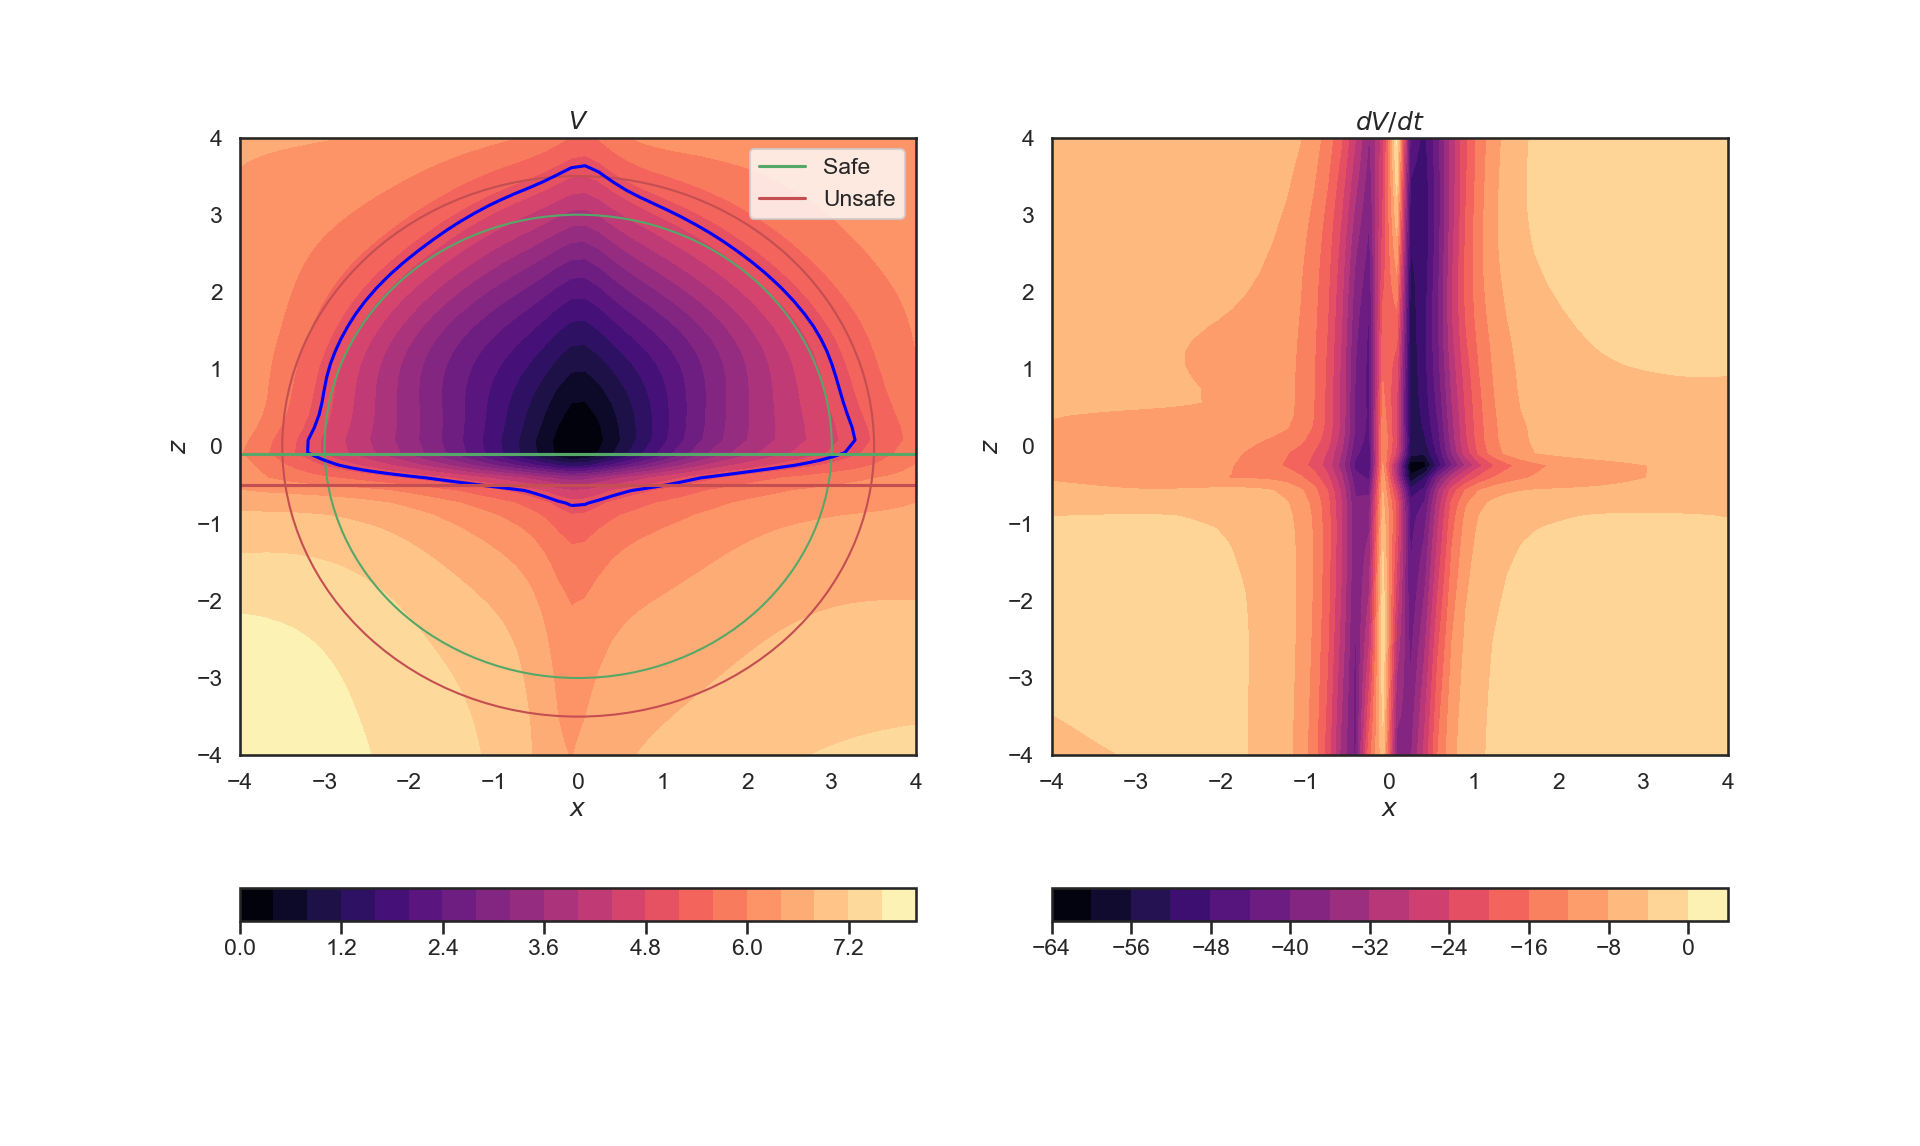
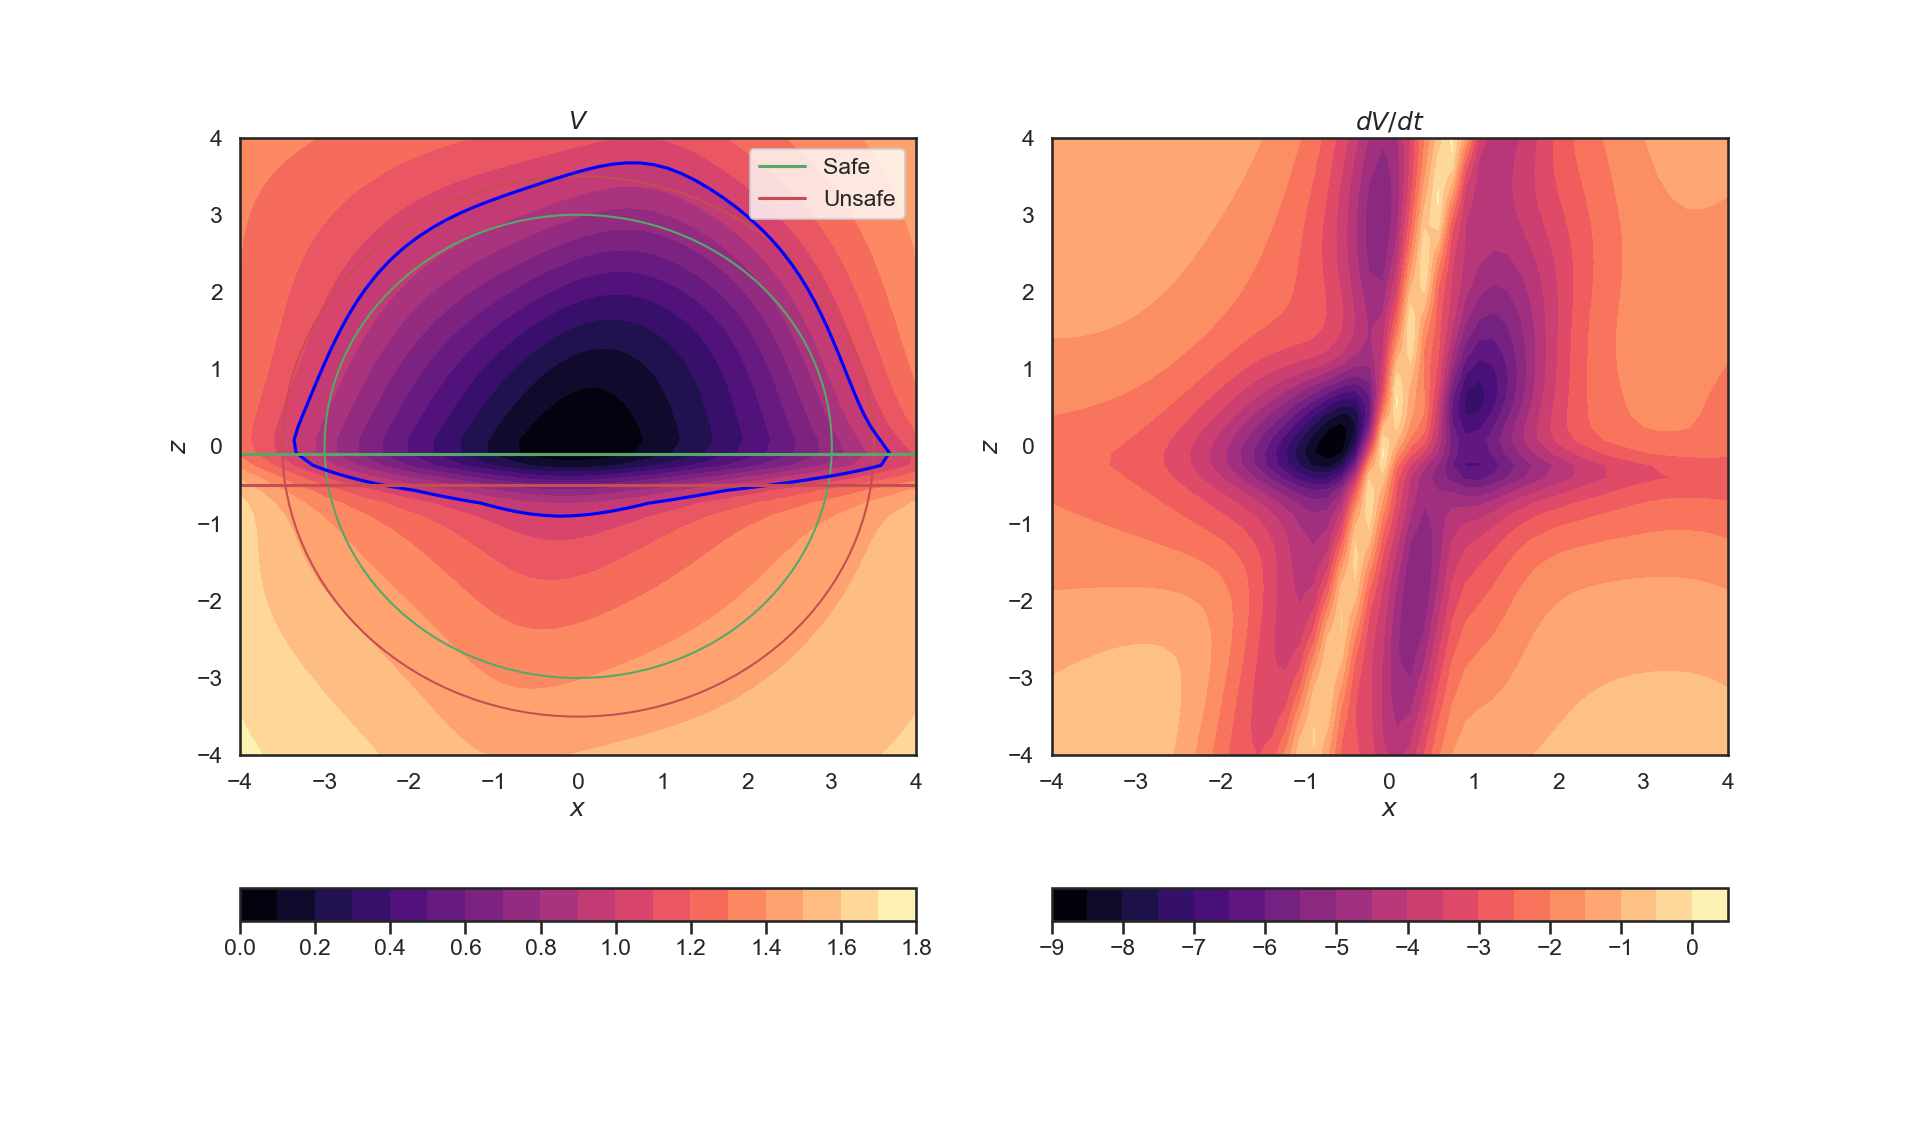
Working!

diff --git a/neural_clf/plotting/pvtol_clf_simulation.py b/neural_clf/plotting/pvtol_clf_simulation.py
@@ -59,8 +59,8 @@ with torch.no_grad():
     x_sim_start[:, 4] = -2.0
 
     # Get a random distribution of masses and inertias
-    ms = torch.Tensor(N_sim, 1).uniform_(low_m, high_m)
-    inertias = torch.Tensor(N_sim, 1).uniform_(low_I, high_I)
+    ms = torch.Tensor(N_sim, 1).uniform_(low_m, low_m)
+    inertias = torch.Tensor(N_sim, 1).uniform_(low_I, low_I)
 
     t_sim = 10
     delta_t = 0.001
